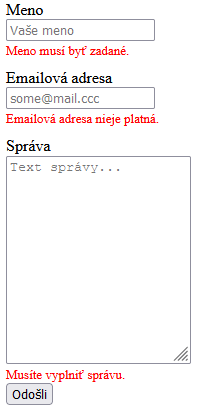
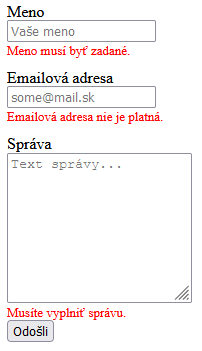
Contact form

Changed region(s): [[0.0297, 0.0, 0.9505, 0.9687]]

diff --git a/php/contact-form/index.php b/php/contact-form/index.php
@@ -19,7 +19,7 @@ if ($isPost) {
     }
     $email = filter_var($_POST['email'], FILTER_VALIDATE_EMAIL);
     if (!$email) {
-        $errors['email'] = "Emailová adresa CSS platná.";
+        $errors['email'] = "Emailová adresa nie je platná.";
     }
     $content = trim($_POST['content']);
     if (empty($content)) {

diff --git a/php/contact-form/riesenie.md b/php/contact-form/riesenie.md
@@ -77,7 +77,7 @@ if ($isPost) {
   }
   $email = filter_var($_POST['email'], FILTER_VALIDATE_EMAIL);
   if (!$email) {
-    $errors['email'] = "Emailová adresa CSS platná.";
+    $errors['email'] = "Emailová adresa nie je platná.";
   }
   $content = trim($_POST['content']);
   if (empty($content)) {
@@ -238,7 +238,7 @@ Ak sme odoslali formulár a nemáme žiadnu validačnú chybu, tak zobrazíme sp
 
 Prezentovaný HTML formulár obsahuje len jednoduchú validáciu. Pre reálne nasadenie by bolo vhodné pridať ďalšie validačné pravidlá na napr. obsah správy. Aktuálny formulár neobsahuje žiadnú ochranu proti robotom (*botom*) takže takýto formulár môže spôsobiť záplavu spamu v emailovej schránke. Bolo by pre to vhodné implementovať nejakú ochranu proti robotom - napríklad zobrazenie formuláru až po prihlásení alebo použitie systému [reCAPTCHA](https://www.google.com/recaptcha/about/) od Google.
 
-V našom príklade sme nastavili mail tak, že u príjemcu to vyzerá tak, že mail bol odoslaný z adresy, ktorú zadal používateľ v kontaktnom formulári. Takéto emaily ale v dnešnej dobe väčšina hostingových providerov nepodporuje, a vyžadujú, aby maily boli odosielané z domény, na ktorej daný web beží. V tomto prípade vieme upraviť odosielanie tak, aby mail odišiel z adresy, ktorá patrí danému webu, ale aby sme nestratili kontakt na odosielajúceho používateľa.
+V našom príklade sme nastavili mail tak, že u príjemcu to vyzerá tak, že mail bol odoslaný z adresy, ktorú zadal používateľ v kontaktnom formulári. Takéto emaily ale v dnešnej dobe väčšina hostingových providerov nepodporuje, a vyžadujú, aby maily boli odosielané z domény, na ktorej daný web beží. V tomto prípade vieme upraviť odosielanie tak, aby mail odišiel z adresy, ktorá patrí danému webu, ale zároveň aby sme nestratili kontakt na odosielajúceho používateľa.
 
 ```php
 mail(
